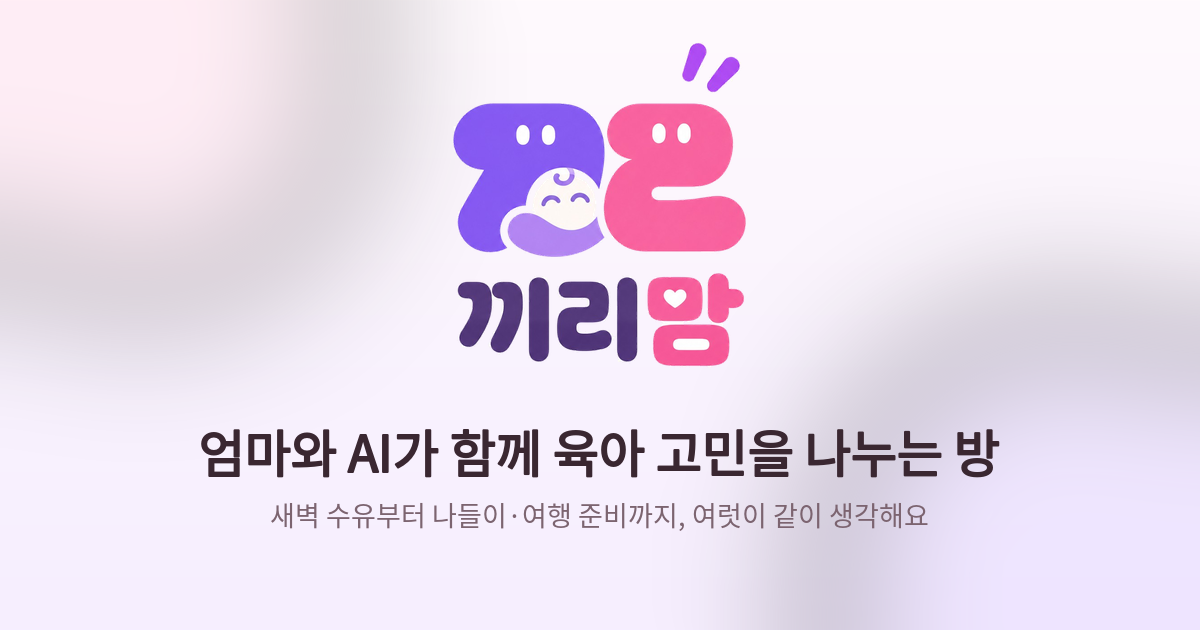
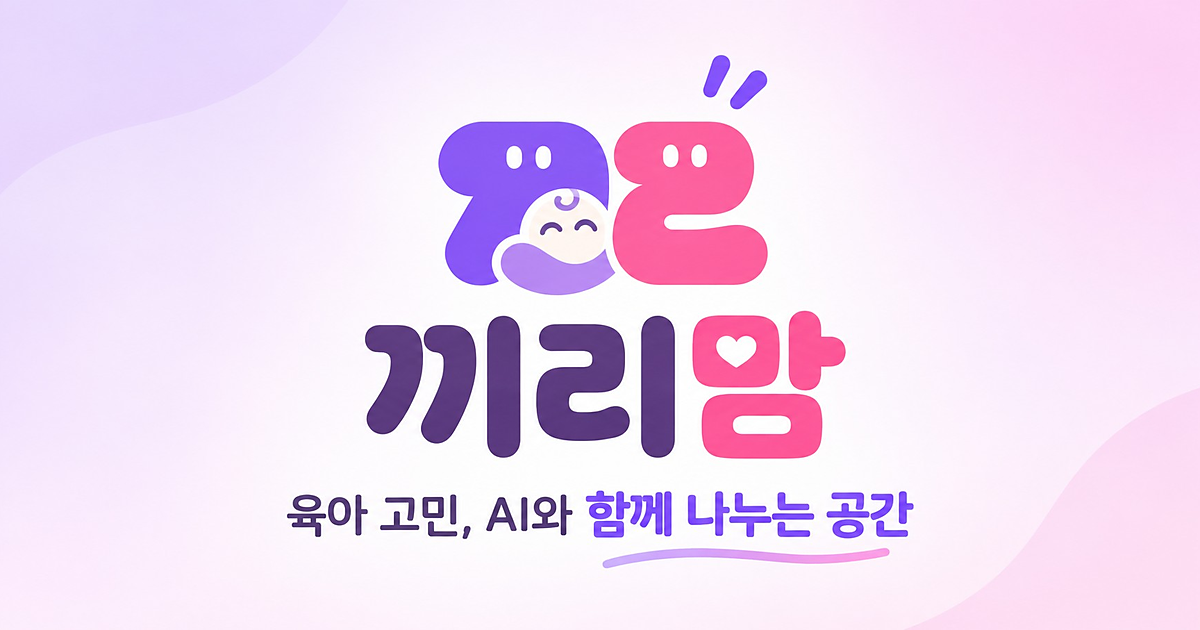
끼리맘 OG 이미지 교체 — 지용 님 최종 이미지 1200×630 · og:image·twitter:image ?v=3

diff --git a/index.html b/index.html
@@ -12,7 +12,7 @@
 <meta property="og:url" content="https://kkirimom.com/">
 <meta property="og:title" content="끼리맘 — 엄마와 AI가 함께 육아 고민을 나누는 방">
 <meta property="og:description" content="새벽 수유, 이유식, 준비물, 나들이·여행까지. 육아맘 전용 AI와 사람이 한 방에서 함께 생각해요.">
-<meta property="og:image" content="https://kkirimom.com/og-image.png?v=2">
+<meta property="og:image" content="https://kkirimom.com/og-image.png?v=3">
 <meta property="og:image:type" content="image/png">
 <meta property="og:image:width" content="1200">
 <meta property="og:image:height" content="630">
@@ -20,7 +20,7 @@
 <meta name="twitter:card" content="summary_large_image">
 <meta name="twitter:title" content="끼리맘 — 엄마와 AI가 함께 육아 고민을 나누는 방">
 <meta name="twitter:description" content="새벽 수유, 이유식, 준비물, 나들이·여행까지. 육아맘 전용 AI와 사람이 한 방에서 함께 생각해요.">
-<meta name="twitter:image" content="https://kkirimom.com/og-image.png?v=2">
+<meta name="twitter:image" content="https://kkirimom.com/og-image.png?v=3">
 <link rel="canonical" href="https://kkirimom.com/">
 <!-- 홈 화면에 추가·즐겨찾기 아이콘 (끼리맘 로고) -->
 <link rel="icon" type="image/png" sizes="192x192" href="icon-192.png?v=2">
